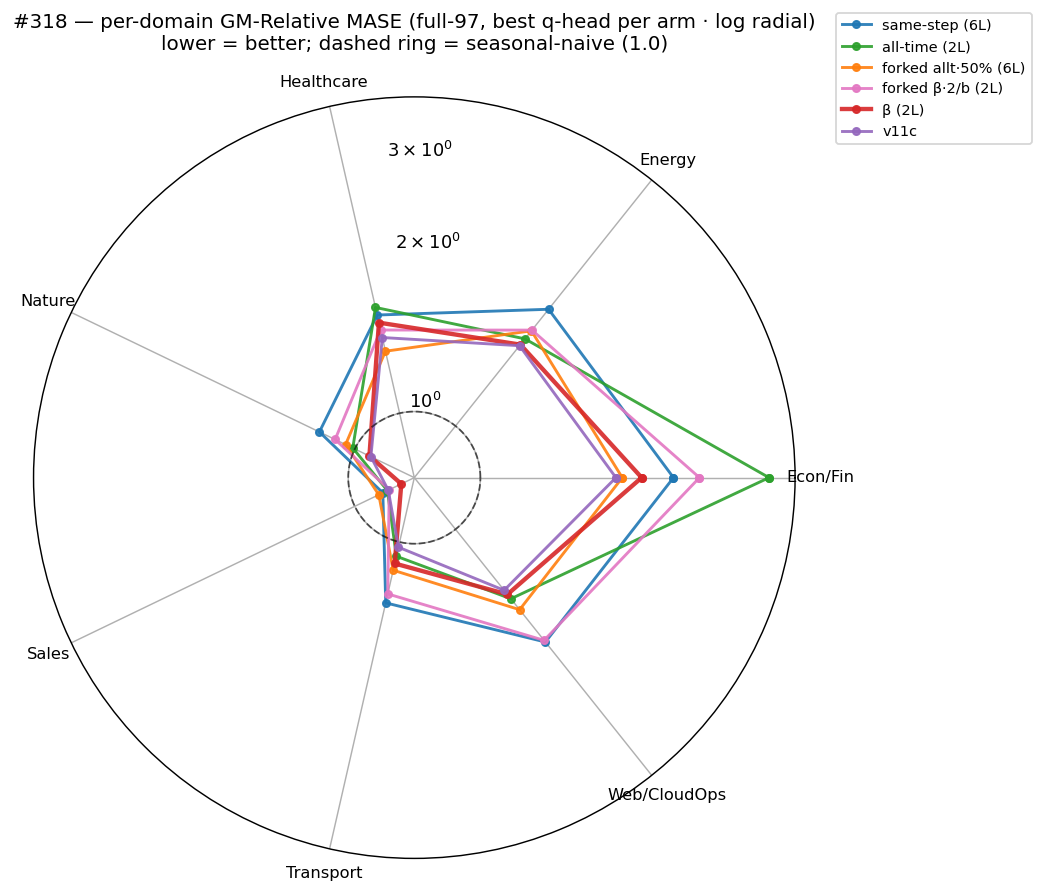
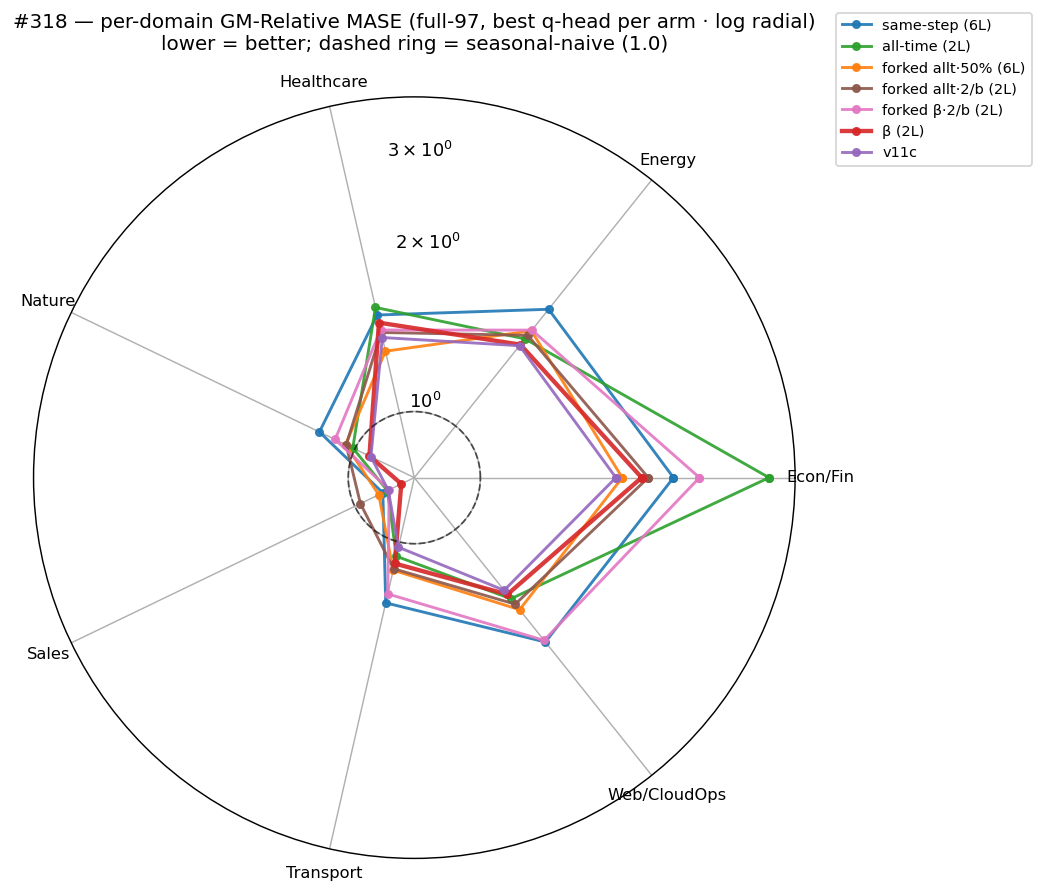
results(#318): forked allt·2/b 2L = 1.4049 — isolated fork ≈ neutral vs all-time
The minimal 2/batch fork on the all-time loss (2L head) gives full-97 1.4049 —
within noise of all-time alone (1.4143) and far below the 50% mix (1.6366),
confirming the 50% synthetic fraction was the confound, not the fork. Also
beta-forked2 6L triage 1.4027 (full running). Scoreboard + plots refreshed.

diff --git a/experiments/2026-05-23_xseries_hh/RESULTS.md b/experiments/2026-05-23_xseries_hh/RESULTS.md
@@ -119,10 +119,10 @@ seasonal-naive 1.0.
 | loss-side · all-time | 6L | 1.4748 | 1.7028 | +11.1% |
 | data-side · forked allt·50% | 2L | 1.6366 | 1.8824 | +23.3% |
 | data-side · forked allt·50% | 6L | **1.4065** | 1.5339 | +6.0% |
-| data-side · forked allt·2/b | 2L | *running* | 1.6083 | — |
+| data-side · forked allt·2/b | 2L | 1.4049 | 1.6083 | +5.9% |
 | data-side · forked allt·2/b | 6L | *in flight* | *in flight* | — |
 | data-side · forked β·2/b | 2L | 1.5302 | 1.4376 | +15.3% |
-| data-side · forked β·2/b | 6L | *in flight* | *in flight* | — |
+| data-side · forked β·2/b | 6L | *running* | 1.4027 | — |
 | v11c (reference) | 2L | 1.292 | — | −2.7% |
 
 *GM-Relative MASE, lower = better; Δ vs the best arm β·2L (1.3272).*
